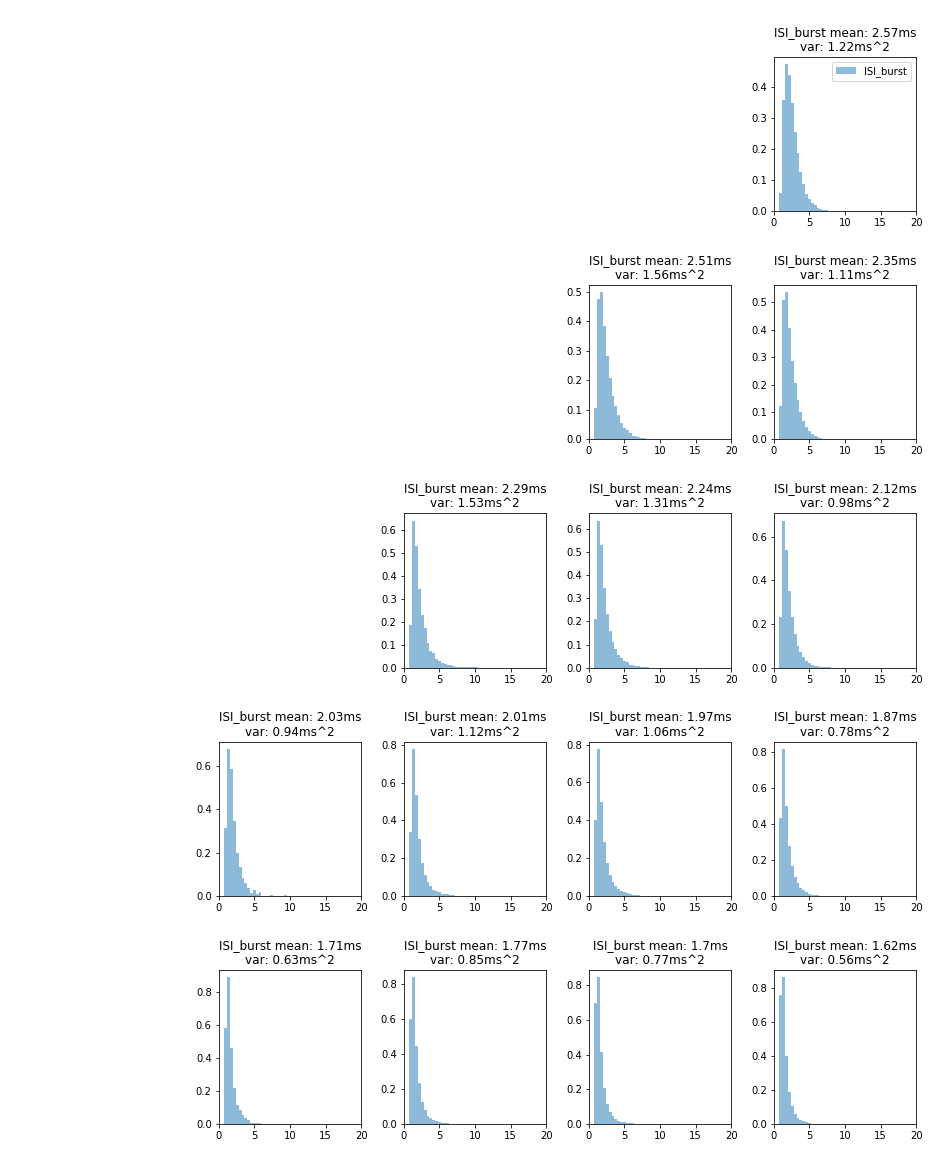
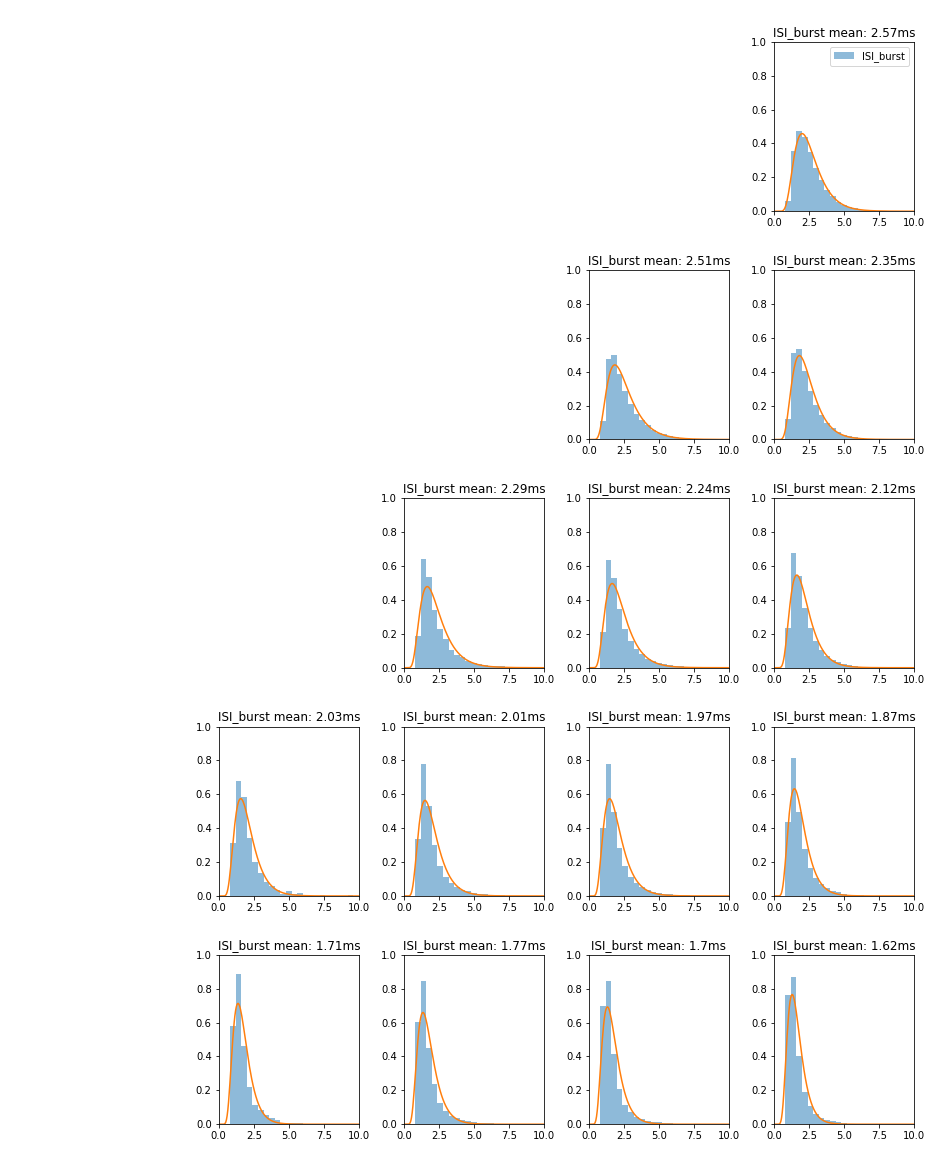
more plots

diff --git a/plot_hists_segments.py b/plot_hists_segments.py
@@ -56,40 +56,28 @@ def plot_subplot(fig, file_name, name, keys, idx_tau_n, idx_Iapp, log, cut, fit)
         means = {}
         var = {}
         for key in keys:
-<<<<<<< HEAD
-            flat_results = np.array([result for neuron in results[key] for result in neuron])
-            ax.hist(flat_results*1000, normed = True, bins = 50,  alpha = .5, range = ((0,cut)), log = False, label = key)
-            means[key] = round(flat_results.mean()*1000,2)
-            var[key] = round(np.var(flat_results*1000),2)
-        means_title_part = ''.join(['\n' + key + ' mean: ' + str(means[key]) + 'ms\n'+'var: ' + str(var[key]) + 'ms^2'for key in keys])
-=======
+
             flat_results = np.array([result for neuron in results[key] for result in neuron])*1000
-            ax.hist(flat_results, normed = True, bins = 50,  alpha = .5, range = ((0,cut)), log = log, label = key)
-            
+            ax.hist(flat_results, normed = True, bins = 25,  alpha = .5, range = ((0,cut)), log = log, label = key)
             plot_fit(flat_results, cut, fit)
-                
             means[key] = int(flat_results.mean())
             means[key] = round(flat_results.mean(),2)
         means_title_part = ''.join(['\n' + key + ' mean: ' + str(means[key]) + 'ms' for key in keys])
         title = ''
->>>>>>> 2aaf0206243d36e03c9603dc81dcafdc1f6422e6
+
         if name == 'quiet_and_burst':
             num_ISI = np.sum([len(neuron) for neuron in results['ISI']])
             num_ISI_burst = np.sum([len(neuron) for neuron in results['ISI_burst']])
             title = str(int(num_ISI_burst/num_ISI*100))+'% ISI_burst'
         if name == 'all':
             num_ISI = np.sum([len(neuron) for neuron in results['ISI']])
-            
-<<<<<<< HEAD
+
             ax.set_title(str(num_ISI) + ' ISIs' + means_title_part)
             
         if name == 'burst':
             ax.set_title(means_title_part)
-=======
-            title = str(num_ISI) + ' ISIs' 
-            
-        ax.set_title(title + means_title_part)
->>>>>>> 2aaf0206243d36e03c9603dc81dcafdc1f6422e6
+        ax.set_ylim((0,1))
+        ax.set_title(title+means_title_part)
     except IOError:
         ax.axis('off')
         pass
@@ -117,8 +105,5 @@ def plot_all_histograms(name, log = False, cut=20, fit = None):
         plt.tight_layout()
         plt.savefig('pictures_report/'+name+' '+str(I_noise)+'.png')
         
-<<<<<<< HEAD
-plot_all_histograms('burst', log = False)
-=======
-plot_all_histograms('up', log = False, cut = 50, fit = 'exp')
->>>>>>> 2aaf0206243d36e03c9603dc81dcafdc1f6422e6
+plot_all_histograms('burst', log = False, cut = 10, fit = 'inv')
+

diff --git a/Neuron.py b/Neuron.py
@@ -380,7 +380,7 @@ Iapp = 3.8 * uA #/cm**2
 I_noise = 2.5*uA
 duration = 50*ms
 
-find_points(tau_n, Iapp, plot = True)
+#find_points(tau_n, Iapp, plot = True)
 
 #plot_everything(tau_n=tau_n, Iapp=Iapp, duration=duration, I_noise=I_noise, number =5, plot=True)
 
